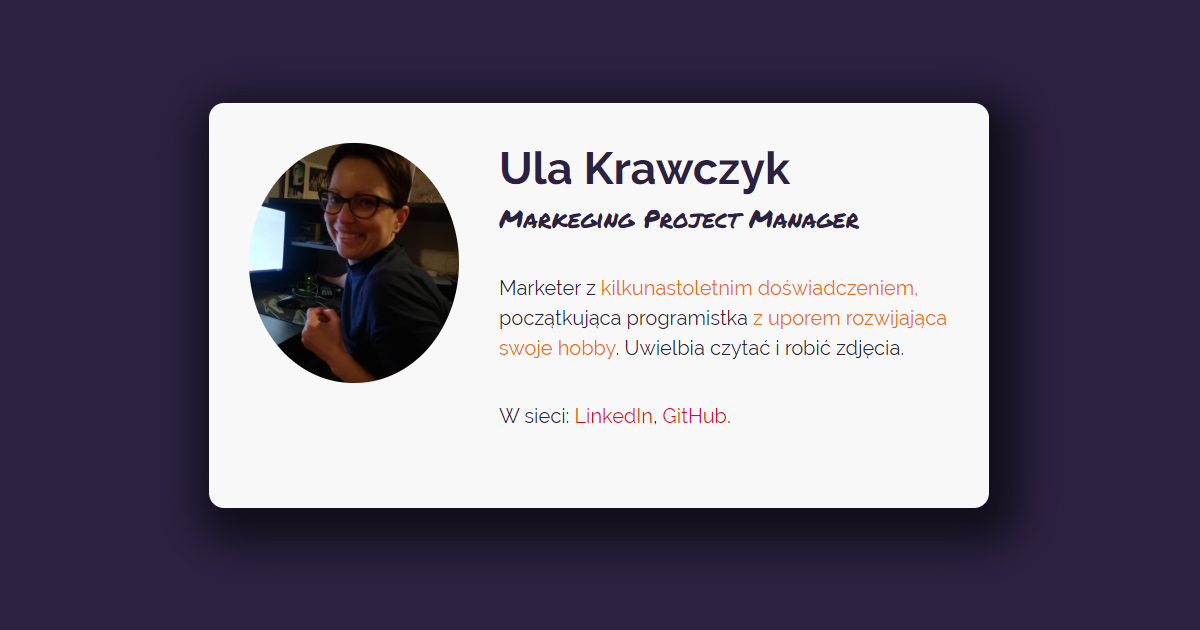
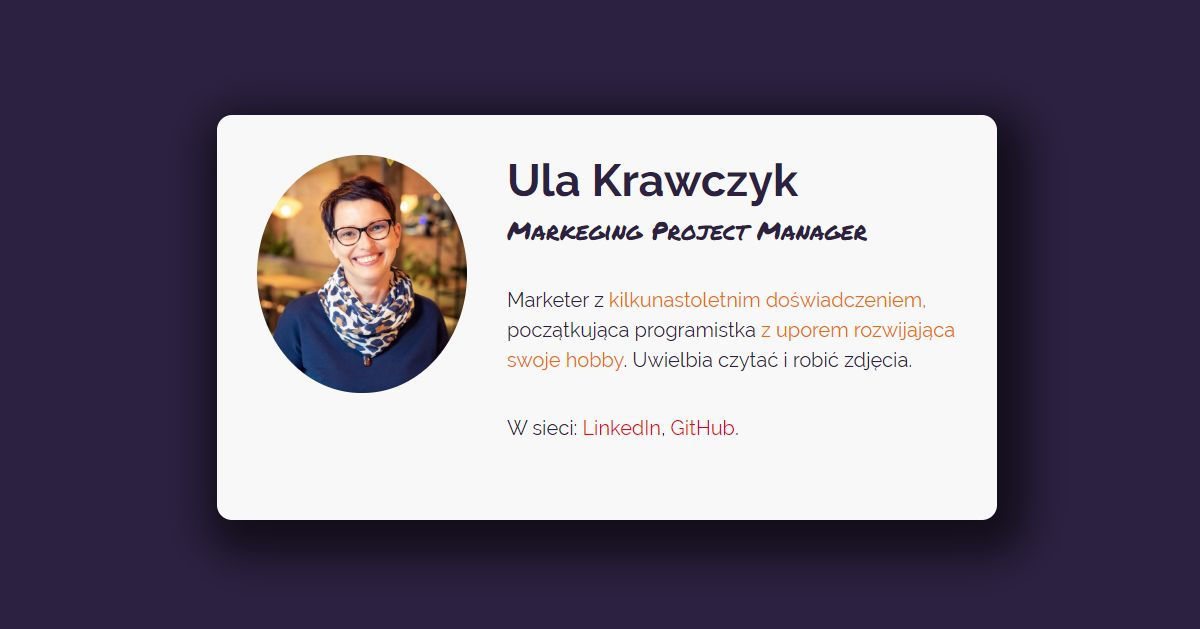
feat: new image

Changed region(s): [[0.1542, 0.151, 0.8325, 0.8458], [0.4008, 0.6343, 0.6167, 0.6948]]

diff --git a/src/scss/main.scss b/src/scss/main.scss
@@ -1,7 +1,6 @@
 @import "_normalize";
 @import "_variables";
-@import url('https://fonts.googleapis.com/css?family=Permanent+Marker|Raleway:400,700&display=swap&subset=latin-ext');
-
+@import url("https://fonts.googleapis.com/css?family=Permanent+Marker|Raleway:400,700&display=swap&subset=latin-ext");
 
 html {
   box-sizing: border-box;
@@ -25,24 +24,23 @@ body {
   align-items: center;
   font-family: $font-text;
   color: $violet;
-
 }
 
 .card {
-  background-color: #F8F8F8;
+  background-color: #f8f8f8;
   border-radius: 12px;
   max-width: 624px;
   width: 100%;
   padding: 32px;
   margin: 0 3rem 0 3rem;
-  box-shadow: 0.5rem .8rem 2rem 1rem rgba(#000, .6);
+  box-shadow: 0.5rem 0.8rem 2rem 1rem rgba(#000, 0.6);
 }
 
 .person {
   display: flex;
   align-items: flex-start;
 
-  @media(max-width: 752px) {
+  @media (max-width: 752px) {
     display: flex;
     flex-direction: column;
   }
@@ -51,21 +49,20 @@ body {
     width: 30%;
     border-radius: 50%;
     margin-right: 32px;
-    filter: brightness(1.6);
-    transition: .7s;
+    transition: 0.7s;
 
-    @media(max-width: 752px) {
+    @media (max-width: 752px) {
       width: 50%;
       margin: 1rem auto 2rem auto;
     }
 
-    @media(max-width: 520px) {
+    @media (max-width: 520px) {
       width: 70%;
       margin: 1rem auto 2rem auto;
     }
 
     &:hover {
-      filter: brightness(1.8) grayscale(.8);
+      filter: grayscale(0.9);
     }
   }
 
@@ -81,10 +78,11 @@ body {
   &__position {
     font-family: $font-header;
     font-size: 20px;
-    transition: .4s;
+    transition: 0.4s;
 
     &:hover {
-      text-shadow: 0.4rem .3rem 1rem rgba(#000, .8);
+      color: rgb(60, 33, 112);
+      text-shadow: 0.4rem 0.3rem 1rem rgba(#000, 0.8);
     }
   }
 
@@ -106,7 +104,7 @@ body {
   &__link {
     color: $red;
     text-decoration: none;
-    transition: .6s;
+    transition: 0.6s;
 
     &:hover {
       color: $violet;

diff --git a/src/content/index.html b/src/content/index.html
@@ -24,7 +24,7 @@
 <body>
   <main class="card">
     <article class="person">
-      <img class="person__photo" src="assets/img/ula.jpg" alt="ula krawczyk">
+      <img class="person__photo" src="assets/img/ula-new.jpg" alt="ula krawczyk">
       <div>
         <header class="person__header">
           <h1 class="person__name">Ula Krawczyk</h1>
